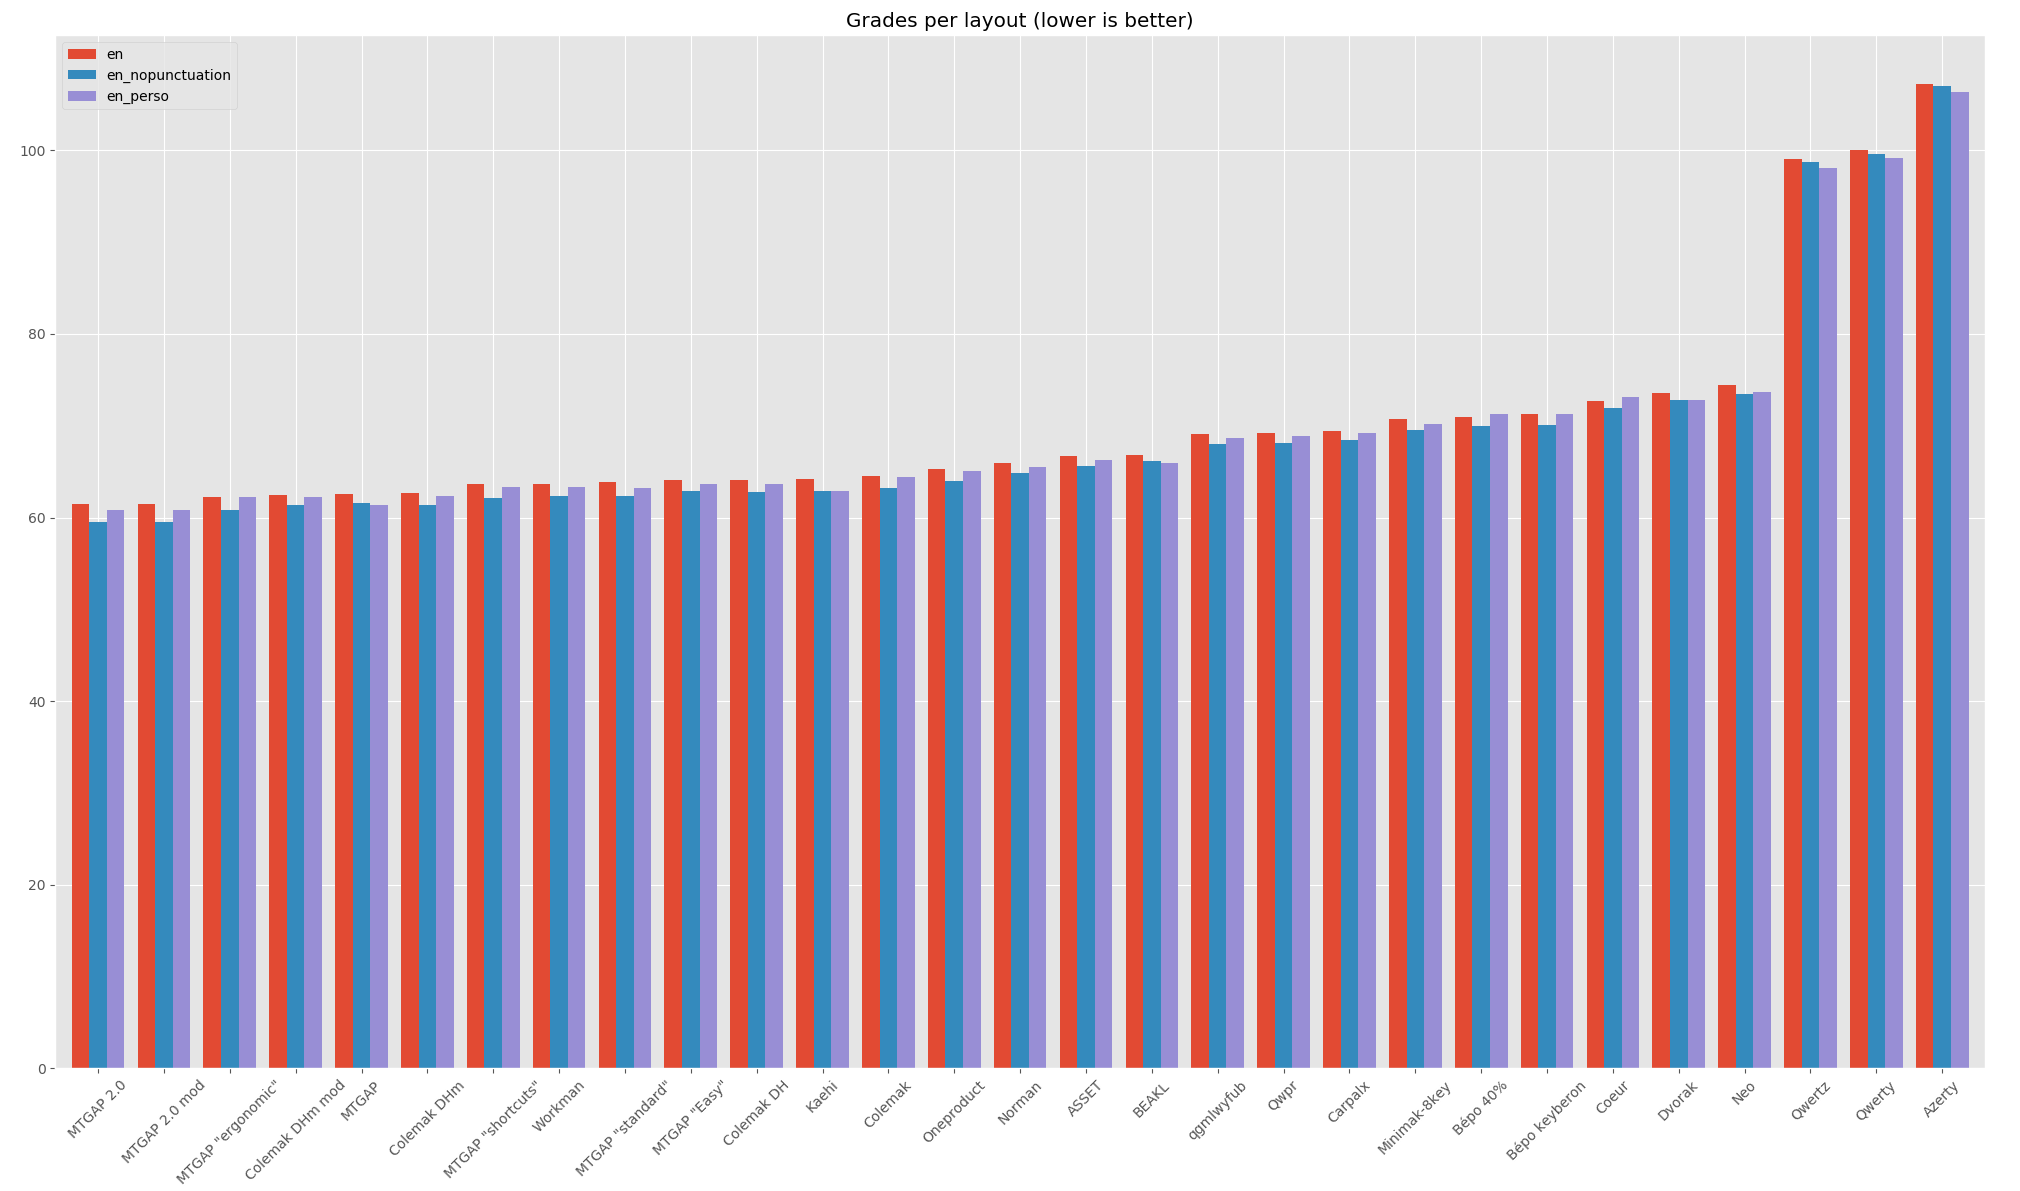
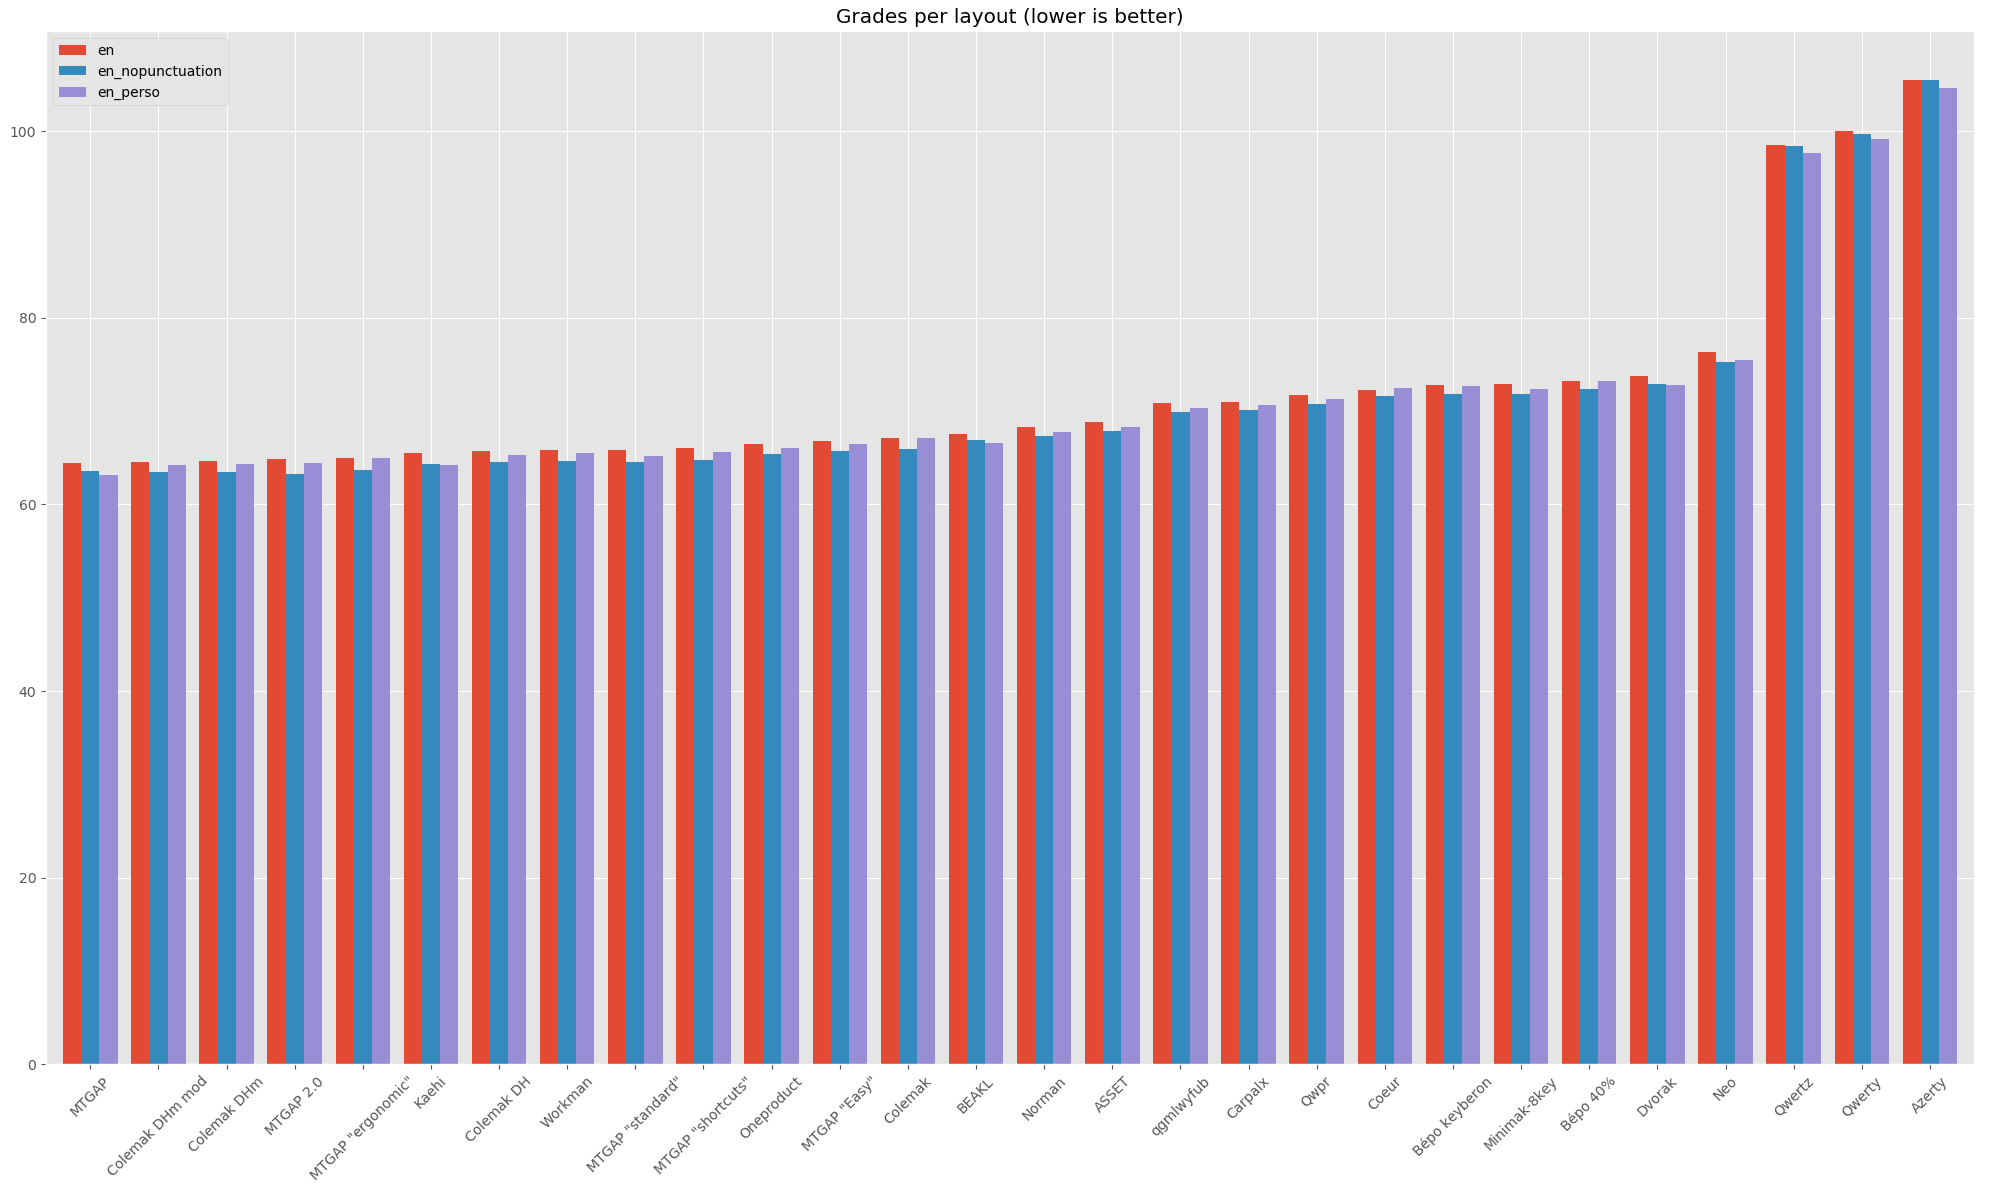
changed weights, penalties, and conclusion

diff --git a/README.md b/README.md
@@ -6,7 +6,7 @@ Many keyboard layouts exist (designed by hand or generated by algorithm) to impr
 
 The method uses statistics of bigram use (sets of 2 letters) for each language, and grades them according to subjective "weights" (depending on the keys positions), to calculate a comparative difficulty between layouts.
 
-The results show that any alternative layout gives a significant ergonomic advantage over Qwerty. The best option is [MTGAP 2.0](http://mtgap.bilfo.com/completed_keyboard.html), but the [Colemak DHm](https://colemakmods.github.io/mod-dh/keyboards.html) performs very well and brings more familiarity, better shortcuts, and larger positive user feedback.
+The results show that any alternative layout gives a significant ergonomic advantage over Qwerty. Several options give good results, in particular [Colemak DHm](https://colemakmods.github.io/mod-dh/keyboards.html) which also brings good familiarity, accessible shortcuts, and positive user feedback.
 
 ![results](images/results.png "Grades per layout")
 
@@ -149,28 +149,28 @@ They represent the relative difficulty to hit a single key. The proposed values 
 
 ### Penalties
 
-The penalties represent the additional difficulty of to hitting 2 keys consecutively. They come on top of the base weight. They are only taken into account if the 2 keys are hit by the same hand (and are not the same key, like "aa").
+The penalties represent the additional difficulty of to hitting 2 keys consecutively. They come on top of the base weight. They are only taken into account if the 2 keys are hit by the same hand (and are not the same key, like "aa"). By default they are given a slightly positive value in order to favor hand alternation.
 
 Generally the penalties are higher if the same finger is used, and also the more rows separate the 2 keys. They can be negative if the relative position makes the motion easy, such as a close "inward roll" (like "sd" on Qwerty).
 
 | First finger | Second finger | Same row | 1 row jump | 2 rows jump | Comment     |
 | :----------- | :------------ | -------: | ---------: | ----------: | :---------- |
-| Index        | Index         |      2.0 |        3.0 |         4.0 | Same finger |
-| Index        | Middle        |      0.0 |        0.5 |         1.5 |
-| Index        | Ring          |      0.0 |        0.3 |         1.0 |
-| Index        | Pinky         |      0.0 |        0.3 |         0.6 |
-| Middle       | Index         |     -2.0 |       -0.8 |         1.0 | Inward roll |
-| Middle       | Middle        |      N/A |        3.0 |         4.0 | Same finger |
-| Middle       | Ring          |      0.0 |        0.5 |         1.5 |
-| Middle       | Pinky         |      0.0 |        0.3 |         1.0 |
-| Ring         | Index         |     -2.0 |       -0.8 |         0.8 | Inward roll |
-| Ring         | Middle        |     -2.5 |       -1.0 |         0.8 | Inward roll |
-| Ring         | Ring          |      N/A |        3.0 |         4.0 | Same finger |
-| Ring         | Pinky         |      0.5 |        1.0 |         2.0 |
-| Pinky        | Index         |     -2.0 |       -0.8 |         0.2 | Inward roll |
-| Pinky        | Middle        |     -2.0 |       -0.8 |         1.0 | Inward roll |
-| Pinky        | Ring          |     -2.0 |       -0.8 |         2.0 | Inward roll |
-| Pinky        | Pinky         |      2.5 |        3.5 |         5.0 | Same finger |
+| Index        | Index         |      2.5 |        3.5 |         4.5 | Same finger |
+| Index        | Middle        |      0.5 |        1.0 |         2.0 |
+| Index        | Ring          |      0.5 |        0.8 |         1.5 |
+| Index        | Pinky         |      0.5 |        0.8 |         1.1 |
+| Middle       | Index         |     -1.5 |       -0.5 |         1.5 | Inward roll |
+| Middle       | Middle        |      N/A |        3.5 |         4.5 | Same finger |
+| Middle       | Ring          |      0.5 |        1.0 |         2.0 |
+| Middle       | Pinky         |      0.5 |        0.8 |         1.5 |
+| Ring         | Index         |     -1.5 |       -0.5 |         1.5 | Inward roll |
+| Ring         | Middle        |     -2.0 |       -0.5 |         1.2 | Inward roll |
+| Ring         | Ring          |      N/A |        3.5 |         4.5 | Same finger |
+| Ring         | Pinky         |      1.0 |        1.5 |         2.5 |
+| Pinky        | Index         |     -1.0 |        0.0 |         1.0 | Inward roll |
+| Pinky        | Middle        |     -1.0 |        0.0 |         1.5 | Inward roll |
+| Pinky        | Ring          |     -1.0 |        0.0 |         1.5 | Inward roll |
+| Pinky        | Pinky         |      3.0 |        4.0 |         5.5 | Same finger |
 
 ## Limits
 
@@ -214,37 +214,36 @@ Here is the complete results list. The layouts can be seen in `config.txt`.
 
 | Layout                                                                                          | English | English perso | French | French perso | Spanish | German |
 | :---------------------------------------------------------------------------------------------- | ------: | ------------: | -----: | -----------: | ------: | -----: |
-| [MTGAP 2.0](https://mathematicalmulticore.wordpress.com/2010/06/21/mtgaps-keyboard-layout-2-0/) |   61.42 |         60.80 |  64.05 |        62.50 |   60.10 |  61.58 |
-| MTGAP 2.0 mod                                                                                   |   61.45 |         60.83 |  62.52 |        61.32 |   60.10 |  61.58 |
-| [MTGAP "ergonomic"](http://mtgap.bilfo.com/official_keyboard.html)                              |   62.26 |         62.26 |  66.81 |        66.27 |   61.42 |  63.31 |
-| Colemak DHm mod                                                                                 |   62.50 |         62.21 |  64.88 |        64.02 |   61.12 |  63.33 |
-| [MTGAP](https://mathematicalmulticore.wordpress.com/the-keyboard-layout-project/)               |   62.53 |         61.38 |  67.66 |        66.97 |   63.56 |  64.29 |
-| [Colemak DHm](https://colemakmods.github.io/mod-dh/keyboards.html)                              |   62.62 |         62.34 |  65.30 |        64.35 |   61.12 |  63.33 |
-| [MTGAP "shortcuts"](http://mtgap.bilfo.com/official_keyboard.html) (ROTS)                       |   63.65 |         63.28 |  66.58 |        65.75 |   60.54 |  62.41 |
-| [Workman](https://workmanlayout.org/)                                                           |   63.66 |         63.36 |  70.41 |        69.35 |   65.32 |  65.03 |
-| [MTGAP "standard"](http://mtgap.bilfo.com/official_keyboard.html)                               |   63.85 |         63.25 |  66.35 |        65.25 |   61.53 |  64.27 |
-| [MTGAP "Easy"](http://mtgap.bilfo.com/official_keyboard.html)                                   |   64.05 |         63.69 |  66.54 |        65.12 |   61.55 |  62.12 |
-| [Colemak DH](https://colemakmods.github.io/mod-dh/)                                             |   64.07 |         63.69 |  67.30 |        66.35 |   63.17 |  64.35 |
-| [Kaehi](https://geekhack.org/index.php?topic=98275.0)                                           |   64.20 |         62.94 |  68.37 |        67.25 |   64.43 |  66.20 |
-| [Colemak](https://colemak.com/)                                                                 |   64.53 |         64.41 |  65.65 |        64.14 |   61.94 |  66.03 |
-| [Oneproduct](https://geekhack.org/index.php?topic=67604.0)                                      |   65.29 |         65.03 |  73.11 |        72.12 |   67.43 |  67.46 |
-| [Norman](https://normanlayout.info/)                                                            |   65.98 |         65.46 |  72.30 |        70.74 |   68.93 |  67.84 |
-| [ASSET](http://millikeys.sourceforge.net/asset/)                                                |   66.73 |         66.21 |  67.38 |        65.55 |   64.01 |  68.88 |
-| [BEAKL](https://deskthority.net/wiki/BEAKL)                                                     |   66.84 |         65.94 |  71.34 |        70.39 |   67.68 |  71.82 |
-| [qgmlwyfub](http://mkweb.bcgsc.ca/carpalx/?full_optimization)                                   |   69.13 |         68.66 |  74.43 |        74.89 |   69.17 |  70.49 |
-| [Qwpr](https://sourceforge.net/projects/qwpr/)                                                  |   69.15 |         68.83 |  70.42 |        69.90 |   65.88 |  69.67 |
-| [Carpalx](http://mkweb.bcgsc.ca/carpalx/?full_optimization)                                     |   69.44 |         69.22 |  74.89 |        75.38 |   69.79 |  72.91 |
-| [Minimak-8key](http://www.minimak.org/)                                                         |   70.69 |         70.15 |  72.57 |        71.01 |   69.10 |  72.77 |
-| [Bépo 40%](http://bepo.fr/)                                                                     |   70.99 |         71.30 |  66.45 |        64.97 |   66.83 |  70.41 |
-| [Bépo keyberon](https://github.com/TeXitoi/keyberon#whats-the-layout)                           |   71.25 |         71.28 |  66.67 |        65.18 |   66.84 |  70.45 |
-| [Coeur](https://bepo.fr/wiki/Utilisateur:Bibidibop)                                             |   72.72 |         73.12 |  66.64 |        64.97 |   66.44 |  70.80 |
-| [Dvorak](https://en.wikipedia.org/wiki/Dvorak_keyboard_layout)                                  |   73.54 |         72.82 |  77.90 |        75.72 |   75.04 |  74.05 |
-| [Neo](https://neo-layout.org/)                                                                  |   74.48 |         73.68 |  74.85 |        73.77 |   72.63 |  70.24 |
-| Qwertz                                                                                          |   99.02 |         98.07 |  98.26 |        97.60 |   92.73 |  98.26 |
-| Qwerty                                                                                          |  100.00 |         99.14 |  98.97 |        98.64 |   91.16 |  99.45 |
-| Azerty                                                                                          |  107.19 |        106.36 | 105.02 |       104.68 |  102.95 | 103.40 |
+| [MTGAP](https://mathematicalmulticore.wordpress.com/the-keyboard-layout-project/)               |   64.48 |         63.17 |  69.73 |        69.20 |   66.14 |  67.15 |
+| Colemak DHm mod                                                                                 |   64.54 |         64.18 |  67.32 |        66.75 |   64.18 |  64.70 |
+| [Colemak DHm](https://colemakmods.github.io/mod-dh/keyboards.html)                              |   64.66 |         64.31 |  67.88 |        67.21 |   64.18 |  64.70 |
+| [MTGAP 2.0](https://mathematicalmulticore.wordpress.com/2010/06/21/mtgaps-keyboard-layout-2-0/) |   64.91 |         64.44 |  67.21 |        65.77 |   64.01 |  64.98 |
+| [MTGAP "ergonomic"](http://mtgap.bilfo.com/official_keyboard.html)                              |   64.99 |         64.96 |  69.18 |        68.63 |   64.81 |  66.23 |
+| [Kaehi](https://geekhack.org/index.php?topic=98275.0)                                           |   65.56 |         64.18 |  70.35 |        69.09 |   65.92 |  67.83 |
+| [Colemak DH](https://colemakmods.github.io/mod-dh/)                                             |   65.71 |         65.29 |  69.32 |        68.64 |   65.67 |  65.43 |
+| [Workman](https://workmanlayout.org/)                                                           |   65.83 |         65.51 |  71.42 |        70.57 |   66.85 |  66.93 |
+| [MTGAP "standard"](http://mtgap.bilfo.com/official_keyboard.html)                               |   65.84 |         65.24 |  68.35 |        67.27 |   64.43 |  66.78 |
+| [MTGAP "shortcuts"](http://mtgap.bilfo.com/official_keyboard.html) (ROTS)                       |   66.02 |         65.59 |  68.24 |        67.30 |   62.72 |  65.44 |
+| [Oneproduct](https://geekhack.org/index.php?topic=67604.0)                                      |   66.44 |         66.07 |  73.48 |        72.44 |   68.07 |  68.45 |
+| [MTGAP "Easy"](http://mtgap.bilfo.com/official_keyboard.html)                                   |   66.78 |         66.44 |  68.63 |        67.15 |   64.55 |  64.97 |
+| [Colemak](https://colemak.com/)                                                                 |   67.15 |         67.08 |  68.40 |        67.00 |   65.37 |  67.77 |
+| [BEAKL](https://deskthority.net/wiki/BEAKL)                                                     |   67.53 |         66.54 |  71.57 |        70.62 |   68.37 |  72.13 |
+| [Norman](https://normanlayout.info/)                                                            |   68.34 |         67.74 |  74.01 |        72.48 |   71.24 |  69.86 |
+| [ASSET](http://millikeys.sourceforge.net/asset/)                                                |   68.88 |         68.29 |  69.42 |        67.53 |   66.69 |  70.35 |
+| [qgmlwyfub](http://mkweb.bcgsc.ca/carpalx/?full_optimization)                                   |   70.83 |         70.39 |  75.87 |        76.11 |   70.24 |  72.16 |
+| [Carpalx](http://mkweb.bcgsc.ca/carpalx/?full_optimization)                                     |   71.02 |         70.70 |  76.25 |        76.62 |   70.86 |  74.00 |
+| [Qwpr](https://sourceforge.net/projects/qwpr/)                                                  |   71.69 |         71.30 |  73.36 |        72.93 |   69.44 |  73.07 |
+| [Coeur](https://bepo.fr/wiki/Utilisateur:Bibidibop)                                             |   72.29 |         72.46 |  67.35 |        65.66 |   67.07 |  71.04 |
+| [Bépo keyberon](https://github.com/TeXitoi/keyberon#whats-the-layout)                           |   72.79 |         72.71 |  68.15 |        66.78 |   68.53 |  72.07 |
+| [Minimak-8key](http://www.minimak.org/)                                                         |   72.94 |         72.37 |  74.81 |        73.48 |   71.94 |  75.20 |
+| [Bépo 40%](http://forum.bepo.fr/viewtopic.php?id=1131)                                          |   73.20 |         73.19 |  67.97 |        66.61 |   68.54 |  73.10 |
+| [Dvorak](https://en.wikipedia.org/wiki/Dvorak_keyboard_layout)                                  |   73.74 |         72.79 |  78.15 |        76.07 |   75.34 |  74.59 |
+| [Neo](https://neo-layout.org/)                                                                  |   76.31 |         75.50 |  76.37 |        75.37 |   74.56 |  71.62 |
+| Qwertz                                                                                          |   98.56 |         97.63 |  98.12 |        97.59 |   93.66 |  98.31 |
+| Qwerty                                                                                          |  100.00 |         99.17 |  98.90 |        98.64 |   92.45 |  99.74 |
+| Azerty                                                                                          |  105.44 |        104.64 | 104.18 |       103.88 |  102.40 | 102.81 |
 
-As the "MTGAP 2.0" and "Colemak DHm" layouts gave the most interesting results, a modified version of each was added to replace some characters like `;` (that can be on a layer like Shift + `,`) by the French `é`.
+As the "Colemak DHm" layout gave the most interesting results, a personal modified version was added to replace some characters like `;` (that can be on a layer like Shift + `,`) by the French `é`.
 
 # Conclusion
 
@@ -252,12 +251,8 @@ All the alternative layouts perform very significantly better than the tradition
 
 ![results](images/results.png "Grades per layout")
 
-Among all options, the ones generated by [Mathematical multicore](https://mathematicalmulticore.wordpress.com/) (MTGAP) perform the best. In particular the MPGAP 2.0 (below) gives excellent results across all 4 languages. This simple analysis really shows the quality of the MTGAP approach.
-
-![MTGAP 2.0](images/MTGAP20.png "MTGAP 2.0 layout")
-
-In parallel, the Colemak variants give very decent results without compromising any of the 4 languages. The Colemak DHm (below) is found to be particularly adapted, which makes sense as it stems from user feedback on ergonomic keyboards.
+The options that perform the best are some Colemak variants like DHm, as well as the ones generated by [Mathematical multicore](https://mathematicalmulticore.wordpress.com/) (MTGAP). Colemak DHm (below) gives very good results without compromising any of the 4 languages, which makes sense as it stems from user feedback on ergonomic keyboards.
 
 ![Colemak DHm](images/ColemakDHm.png "Colemak DHm layout")
 
-In conclusion, the most optimized layout is found to be MTGAP 2.0, but the Colemak DHm is particularly recommended due to better keyboard shortcuts access, familiarity with Qwerty, and larger positive user feedback. 
+In conclusion, the Colemak DHm layout is particularly recommended for its good results and better shortcuts access, familiarity with Qwerty, and larger positive user feedback. 
